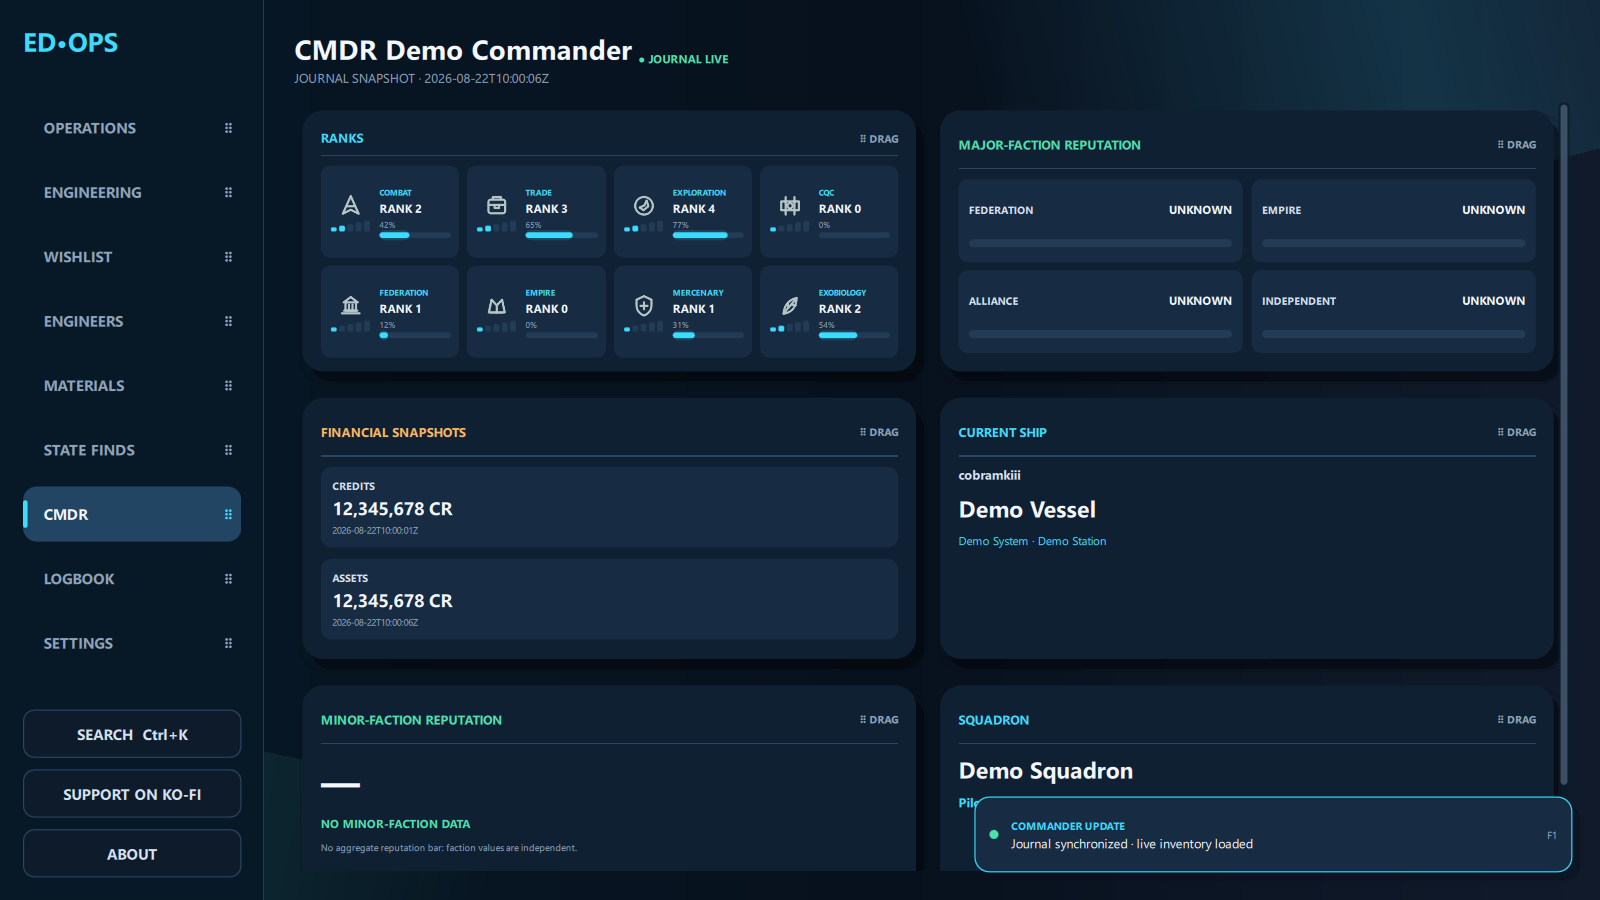
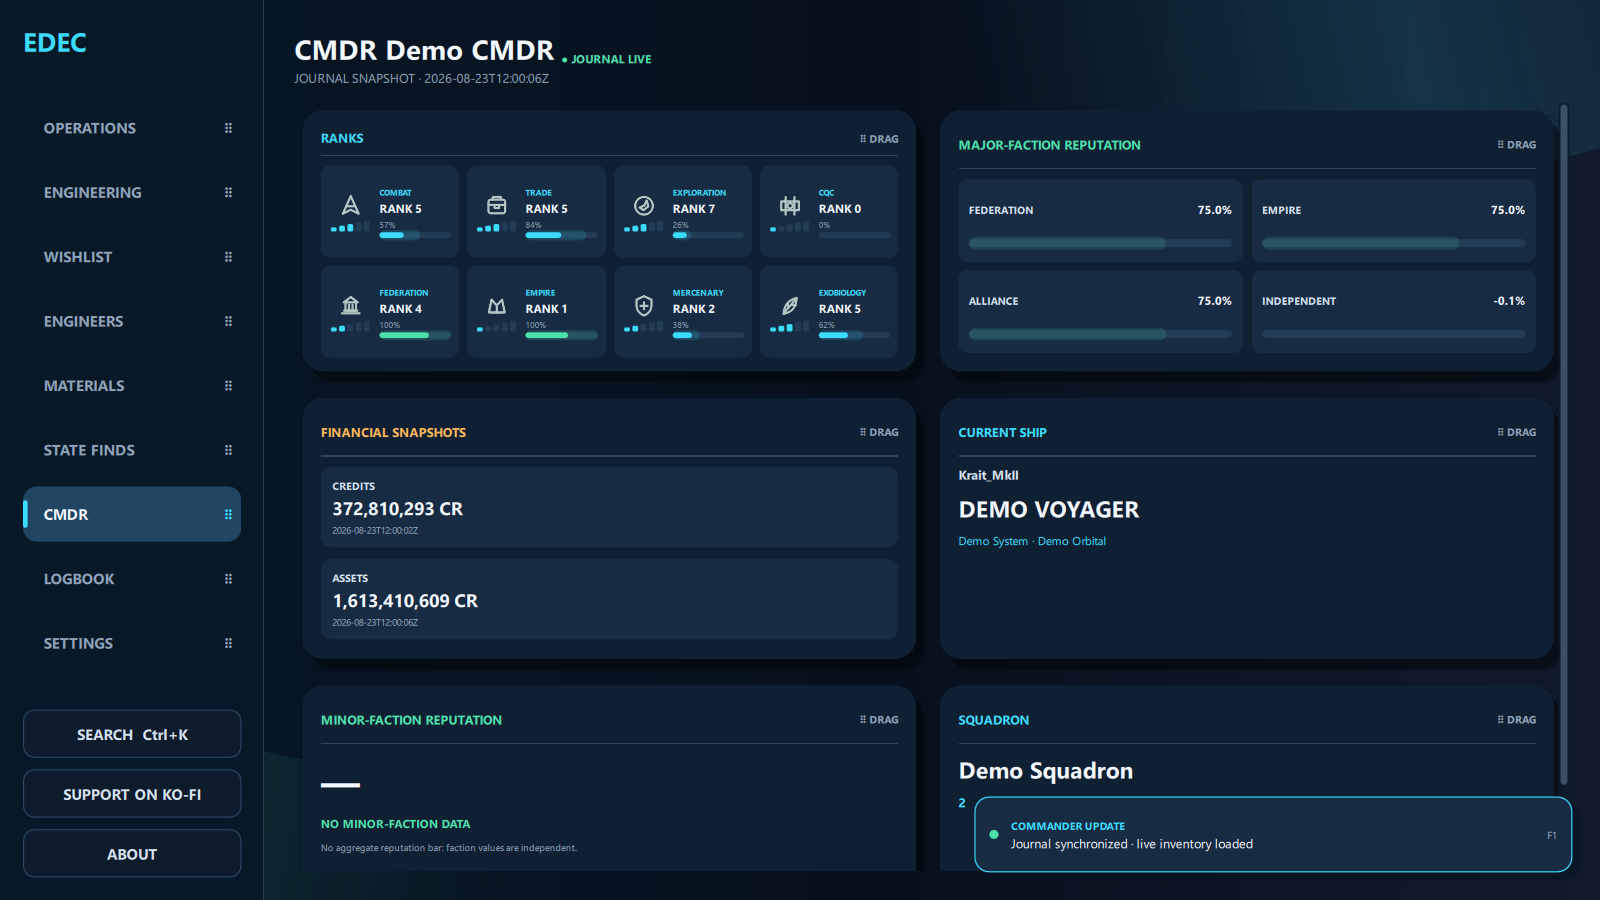
Rebrand application as ED Engineering Companion

diff --git a/Main.qml b/Main.qml
@@ -9,7 +9,8 @@ ApplicationWindow {
     minimumWidth: 1120
     minimumHeight: 700
     visible: true
-    title: "ED Engineering Companion · " + cockpit.appVersion
+    title: "ED Engineering Companion (EDEC) · " + cockpit.appVersion
+    property int previewEngineersMode: 0
 
     // The single app-wide source of color truth. Every palette defines the
     // same semantic roles so a theme switch updates every binding at once.
@@ -834,7 +835,7 @@ ApplicationWindow {
             anchors.margins: 20
             spacing: 10
             Label {
-                text: window.compactSidebar ? "ED" : "ED•OPS"
+                text: window.compactSidebar ? "EC" : "EDEC"
                 color: cyan
                 font.pixelSize: 23
                 font.bold: true
@@ -960,7 +961,7 @@ ApplicationWindow {
                 text: window.compactSidebar ? "ⓘ" : "ABOUT"
                 Layout.fillWidth: true
                 ToolTip.visible: hovered
-                ToolTip.text: "About ED·OPS"
+                ToolTip.text: "About ED Engineering Companion"
                 onClicked: aboutDialog.open()
             }
         }
@@ -3102,7 +3103,7 @@ ApplicationWindow {
         property string query: engineerSearch.text.toLowerCase()
         property string statusFilter: engineerStatus.currentText
         property string brokerFilter: "ALL"
-        property bool unlockMode: false
+        property bool unlockMode: window.previewEngineersMode === 1
         property bool guardianMode: false
         property string selectedEngineerName: ""
         property string selectedGuardianName: ""
@@ -5001,23 +5002,23 @@ ApplicationWindow {
                     Rectangle { Layout.fillWidth: true; height: 1; color: borderTone }
                     Label { text: "WINDOWS BEHAVIOR"; color: green; font.pixelSize: 11; font.bold: true }
                     CheckBox {
-                        text: "Keep ED·OPS running in the system tray when the window closes"
+                        text: "Keep EDEC running in the system tray when the window closes"
                         checked: cockpit.backgroundMode
                         enabled: cockpit.systemTrayAvailable
                         onToggled: cockpit.setBackgroundMode(checked)
                     }
                     CheckBox {
-                        text: "Start ED·OPS with Windows in background mode"
+                        text: "Start EDEC with Windows in background mode"
                         checked: cockpit.autostartEnabled
                         enabled: cockpit.backgroundMode
                         onToggled: cockpit.setAutostartEnabled(checked)
                     }
                     Label {
                         text: !cockpit.systemTrayAvailable
-                              ? "SYSTEM TRAY UNAVAILABLE · Closing the window exits ED·OPS."
+                              ? "SYSTEM TRAY UNAVAILABLE · Closing the window exits EDEC."
                               : cockpit.backgroundMode
-                              ? "TRAY MODE ENABLED · Journal, inventory and EDDN continue after closing the window. Use EXIT ED·OPS in the tray to stop."
-                              : "DISABLED BY DEFAULT · Closing the window exits ED·OPS."
+                              ? "TRAY MODE ENABLED · Journal, inventory and EDDN continue after closing the window. Use EXIT EDEC in the tray to stop."
+                              : "DISABLED BY DEFAULT · Closing the window exits EDEC."
                         color: cockpit.backgroundMode ? green : muted
                         font.pixelSize: 10; wrapMode: Text.WordWrap; Layout.fillWidth: true
                     }
@@ -5040,13 +5041,13 @@ ApplicationWindow {
                         spacing: 8
                         CockpitButton {
                             Layout.fillWidth: true
-                            text: cockpit.restartRequired ? "RESTART · APPLY CHANGES" : "RESTART ED·OPS"
+                            text: cockpit.restartRequired ? "RESTART · APPLY CHANGES" : "RESTART EDEC"
                             selected: cockpit.restartRequired
                             onClicked: cockpit.requestRestart()
                         }
                         CockpitButton {
                             Layout.fillWidth: true
-                            text: "EXIT ED·OPS"
+                            text: "EXIT EDEC"
                             onClicked: cockpit.requestExit()
                         }
                     }
@@ -6232,7 +6233,7 @@ ApplicationWindow {
     Dialog {
         id: aboutDialog
         objectName: "qa-dialog-about"
-        title: "About ED·OPS"
+        title: "About ED Engineering Companion"
         modal: true
         anchors.centerIn: parent
         width: Math.min(620, window.width - 80)
@@ -6240,7 +6241,7 @@ ApplicationWindow {
         contentItem: ColumnLayout {
             spacing: 14
             Label {
-                text: "ED·OPS"
+                text: "ED Engineering Companion"
                 color: cyan
                 font.pixelSize: 26
                 font.bold: true
@@ -6284,7 +6285,7 @@ ApplicationWindow {
             }
             Label {
                 Layout.fillWidth: true
-                text: "Special thanks to everyone who helped shape ED·OPS — contributors, testers, bug reporters, translators, and the Elite Dangerous community. Thanks also to EDCD/EDDN, INARA, and Spansh for their documentation, services, and community resources."
+                text: "Special thanks to everyone who helped shape EDEC — contributors, testers, bug reporters, translators, and the Elite Dangerous community. Thanks also to EDCD/EDDN, INARA, and Spansh for their documentation, services, and community resources."
                 color: textSecondary
                 font.pixelSize: 11
                 wrapMode: Text.WordWrap
@@ -6299,7 +6300,7 @@ ApplicationWindow {
             }
             Label {
                 Layout.fillWidth: true
-                text: "ED·OPS is a third-party tool and is not affiliated with Frontier Developments. Elite Dangerous is a trademark of Frontier Developments plc."
+                text: "ED Engineering Companion (EDEC) is a third-party tool and is not affiliated with Frontier Developments. Elite Dangerous is a trademark of Frontier Developments plc."
                 color: muted
                 font.pixelSize: 10
                 wrapMode: Text.WordWrap

diff --git a/ed_companion/phase14/controller.py b/ed_companion/phase14/controller.py
@@ -884,19 +884,19 @@ class CockpitController(QObject):
         if journal_status not in {"LIVE", "READY"}:
             verdict = "YES — JOURNAL IS NOT HEALTHY"
             tone = "ERROR"
-            reason = "ED·OPS cannot currently prove reliable Journal processing. Keep EDMC until the Journal status is LIVE or READY."
+            reason = "EDEC cannot currently prove reliable Journal processing. Keep EDMC until the Journal status is LIVE or READY."
         elif not upload_enabled:
             verdict = "YES — EDDN SHARING IS OFF"
             tone = "WARNING"
-            reason = "ED·OPS reads the Journal, but anonymous EDDN upload is disabled. EDMC is still needed if you want to contribute community data."
+            reason = "EDEC reads the Journal, but anonymous EDDN upload is disabled. EDMC is still needed if you want to contribute community data."
         elif failed:
             verdict = "RECOMMENDED — EDDN ERRORS PENDING"
             tone = "WARNING"
-            reason = f"ED·OPS has {failed} failed EDDN delivery job(s). Resolve or safely retry them before retiring EDMC."
+            reason = f"EDEC has {failed} failed EDDN delivery job(s). Resolve or safely retry them before retiring EDMC."
         else:
             verdict = "NO — FOR JOURNAL + EDDN"
             tone = "READY"
-            reason = "ED·OPS is processing the Journal and its EDDN sender is enabled. Running EDMC in parallel is not required for these paths."
+            reason = "EDEC is processing the Journal and its EDDN sender is enabled. Running EDMC in parallel is not required for these paths."
         station_note = (
             f"{station_attention} station snapshot(s) need attention. Opening the matching Elite station page refreshes them; EDMC cannot create data Elite has not exposed."
             if station_attention else

diff --git a/phase14_main.py b/phase14_main.py
@@ -59,7 +59,7 @@ SINGLE_INSTANCE_NAME = "EDOPS-phase14-single-instance"
 
 
 class SingleInstanceRuntime(QObject):
-    """Keep one ED·OPS process and ask the existing window to foreground."""
+    """Keep one EDEC process and ask the existing window to foreground."""
 
     activationRequested = Signal()
 
@@ -418,7 +418,8 @@ def run():
     install_diagnostics(smoke_messages)
     app = QApplication(sys.argv)
     app.setFont(QFont("Segoe UI", 12))
-    app.setApplicationName("Elite Dangerous Engineering Companion")
+    app.setApplicationName("ED Engineering Companion")
+    app.setApplicationDisplayName("ED Engineering Companion")
     app.setApplicationVersion(APP_VERSION)
 
     if SingleInstanceRuntime.notify_existing():
@@ -467,6 +468,12 @@ def run():
             window.setProperty(
                 "connectionPreviewMode", int(preview_connection)
             )
+        except ValueError:
+            pass
+    preview_engineers_mode = os.environ.get("PHASE14_PREVIEW_ENGINEERS_MODE")
+    if preview_engineers_mode is not None:
+        try:
+            window.setProperty("previewEngineersMode", int(preview_engineers_mode))
         except ValueError:
             pass
     preview_material = os.environ.get("PHASE14_PREVIEW_MATERIAL")

diff --git a/ed_companion/integrations/inara.py b/ed_companion/integrations/inara.py
@@ -1389,7 +1389,7 @@ def send_events(config, events, post=None, timeout=25):
         schema_error = status in {400, 404, 409, 422}
         raise InaraError(
             f"INARA returned HTTP {status}"
-            + (" · request/schema rejected; update ED·OPS before retrying."
+            + (" · request/schema rejected; update EDEC before retrying."
                if schema_error else "."),
             retryable=retryable, status_code=status, schema_error=schema_error,
         ) from None
@@ -1403,7 +1403,7 @@ def send_events(config, events, post=None, timeout=25):
         raise InaraError(
             f"INARA returned HTTP {status}"
             + (f" · {detail}" if detail else "")
-            + (" · request/schema rejected; update ED·OPS before retrying."
+            + (" · request/schema rejected; update EDEC before retrying."
                if schema_error else "."),
             retryable=retryable, status_code=status, schema_error=schema_error,
         )

diff --git a/ed_companion/integrations/eddn.py b/ed_companion/integrations/eddn.py
@@ -748,7 +748,7 @@ def envelope(prepared, context, uploader_id, version=APP_VERSION):
         ),
         "header": {
             "uploaderID": str(uploader_id),
-            "softwareName": "Elite Dangerous Engineering Companion",
+            "softwareName": "ED Engineering Companion",
             "softwareVersion": str(version),
             "gameversion": str(context.get("gameversion") or ""),
             "gamebuild": str(context.get("gamebuild") or ""),
@@ -779,7 +779,7 @@ def send(prepared, context, uploader_id, opener=urlopen, timeout=20):
         except (OSError, AttributeError):
             detail = ""
         schema_note = (
-            " Schema/message rejected; refresh ED·OPS schema support before retrying."
+            " Schema/message rejected; refresh EDEC schema support before retrying."
             if status in {400, 413, 426} else ""
         )
         raise EddnError(

diff --git a/ed_companion/loadout_export.py b/ed_companion/loadout_export.py
@@ -113,7 +113,7 @@ def build_loadout_export(
 
 def loadout_text(payload: dict[str, Any]) -> str:
     lines = [
-        "ED·OPS SHIP OUTFITTING",
+        "EDEC SHIP OUTFITTING",
         f"STATUS · {payload.get('status', 'PARTIAL')}",
         f"SHIP · {payload.get('Ship') or 'Unknown'}",
         f"MODULES · {len(payload.get('Modules') or [])}",

diff --git a/ed_companion/__init__.py b/ed_companion/__init__.py
@@ -1,4 +1,4 @@
-"""Reusable application core for Elite Dangerous Engineering Companion."""
+"""Reusable application core for ED Engineering Companion (EDEC)."""
 
 # Release/build identity shown by the app and sent to optional integrations.
 APP_VERSION = "21.163"

diff --git a/ed_companion/persistence.py b/ed_companion/persistence.py
@@ -1,4 +1,4 @@
-"""Collision-safe atomic writes for local ED·OPS persistence files."""
+"""Collision-safe atomic writes for local EDEC persistence files."""
 
 import os
 import re

diff --git a/README.md b/README.md
@@ -1,10 +1,10 @@
-# ED·OPS
+# ED Engineering Companion (EDEC)
 
-ED·OPS is a free, open-source Engineering Companion for Elite Dangerous. It combines blueprint planning, material tracking, Engineer unlock guidance, Journal processing, and optional INARA/EDDN connectivity in one desktop application.
+ED Engineering Companion (EDEC) is a free, open-source companion tool for Elite Dangerous. It combines blueprint planning, material tracking, Engineer unlock guidance, Journal processing, and optional INARA/EDDN connectivity in one desktop application.
 
-[Download the latest release](https://github.com/CMDRForcer/ED-OPS/releases/latest) · User manual: [English](docs/EDOPS_User_Manual_Privacy_EN_21.163.pdf) / [Deutsch](docs/EDOPS_User_Manual_Privacy_DE_21.163.pdf) · [Report a bug](https://github.com/CMDRForcer/ED-OPS/issues) · [Support ED·OPS on Ko-fi](https://ko-fi.com/cmdrforcer)
+[Download the latest release](https://github.com/CMDRForcer/ED-OPS/releases/latest) · User manual: [English](docs/EDEC_User_Manual_Privacy_EN_21.163.pdf) / [Deutsch](docs/EDEC_User_Manual_Privacy_DE_21.163.pdf) · [Report a bug](https://github.com/CMDRForcer/ED-OPS/issues) · [Support EDEC on Ko-fi](https://ko-fi.com/cmdrforcer)
 
-![ED·OPS Commander Operations](docs/images/operations.png)
+![EDEC Commander Operations](docs/images/operations.png)
 
 ## Features
 
@@ -23,11 +23,11 @@ ED·OPS is a free, open-source Engineering Companion for Elite Dangerous. It com
 
 ### CMDR overview
 
-![ED·OPS CMDR overview using demo data](docs/images/cmdr-overview.png)
+![EDEC CMDR overview using demo data](docs/images/cmdr-overview.png)
 
 ### Engineer Unlock Guide
 
-![ED·OPS Engineer Unlock Guide using demo data](docs/images/unlock-guide.png)
+![EDEC Engineer Unlock Guide using demo data](docs/images/unlock-guide.png)
 
 All screenshots use synthetic demo data and do not contain a real Commander profile or API credentials.
 
@@ -40,36 +40,36 @@ All screenshots use synthetic demo data and do not contain a real Commander prof
 
 ### Portable installation (recommended)
 
-1. Open the [latest ED·OPS release](https://github.com/CMDRForcer/ED-OPS/releases/latest).
-2. Under **Assets**, download `ED-OPS-21.163-Windows.zip`.
+1. Open the [latest EDEC release](https://github.com/CMDRForcer/ED-OPS/releases/latest).
+2. Under **Assets**, download `EDEC-21.163-Windows.zip`.
 3. Extract the entire ZIP to a writable folder.
-4. Start `ED-OPS.exe`. Keep the `_internal` folder next to the executable.
+4. Start `EDEC.exe`. Keep the `_internal` folder next to the executable.
 
 The portable package includes Python and all required dependencies. Windows SmartScreen may show a warning because the executable is not code-signed yet.
 
 ### Run from source
 
-To run the source version instead, install Python 3, download **Source code (zip)**, extract it, run `INSTALL_REQUIREMENTS.bat` once, and then start ED·OPS with `START_APP.bat`.
+To run the source version instead, install Python 3, download **Source code (zip)**, extract it, run `INSTALL_REQUIREMENTS.bat` once, and then start EDEC with `START_APP.bat`.
 
 Personal settings, Journal cursors, caches, and service credentials are stored outside the program folder and are not part of the GitHub download.
 
 ## User manual and privacy
 
-The illustrated ED·OPS 21.163 manual explains installation, navigation, Engineering, the Unlock Guide, local data storage, and the complete INARA, EDDN, and Spansh data flows. It is available in [English](docs/EDOPS_User_Manual_Privacy_EN_21.163.pdf) and [German](docs/EDOPS_User_Manual_Privacy_DE_21.163.pdf). Both editions use synthetic demo screenshots throughout.
+The illustrated EDEC 21.163 manual explains installation, navigation, Engineering, the Unlock Guide, local data storage, and the complete INARA, EDDN, and Spansh data flows. It is available in [English](docs/EDEC_User_Manual_Privacy_EN_21.163.pdf) and [German](docs/EDEC_User_Manual_Privacy_DE_21.163.pdf). Both editions use synthetic demo screenshots throughout.
 
 ## Connections
 
 ### INARA
 
-INARA synchronization is optional. ED·OPS batches supported Commander events, applies deduplication, respects rate limits, and stores local receipts. An INARA API key and Commander configuration are required before uploads can be enabled.
+INARA synchronization is optional. EDEC batches supported Commander events, applies deduplication, respects rate limits, and stores local receipts. An INARA API key and Commander configuration are required before uploads can be enabled.
 
 ### EDDN
 
-EDDN contribution is optional. ED·OPS validates supported messages locally and removes private or unsupported fields before sending public market, station, exploration, and exobiology data.
+EDDN contribution is optional. EDEC validates supported messages locally and removes private or unsupported fields before sending public market, station, exploration, and exobiology data.
 
 ### Spansh
 
-Spansh is used as an optional read-only catalog source for navigation and material-farming assistance. ED·OPS includes offline fallback behavior when the service is unavailable.
+Spansh is used as an optional read-only catalog source for navigation and material-farming assistance. EDEC includes offline fallback behavior when the service is unavailable.
 
 ## Reliability
 
@@ -96,14 +96,14 @@ See [`requirements.txt`](requirements.txt) for the Python dependencies.
 
 ## Status
 
-ED·OPS is under active development. Contributions, bug reports, and feature suggestions are welcome through [GitHub Issues](https://github.com/CMDRForcer/ED-OPS/issues).
+EDEC is under active development. Contributions, bug reports, and feature suggestions are welcome through [GitHub Issues](https://github.com/CMDRForcer/ED-OPS/issues).
 
 ## License
 
-ED·OPS is licensed under the [GNU General Public License v3.0](LICENSE).
+EDEC is licensed under the [GNU General Public License v3.0](LICENSE).
 
 ## Support
 
-ED·OPS remains free to use. If you would like to support its development, visit [ko-fi.com/cmdrforcer](https://ko-fi.com/cmdrforcer).
+EDEC remains free to use. If you would like to support its development, visit [ko-fi.com/cmdrforcer](https://ko-fi.com/cmdrforcer).
 
-ED·OPS is an independent third-party project and is not affiliated with Frontier Developments. Elite Dangerous is a trademark of Frontier Developments plc.
+ED Engineering Companion (EDEC) is an independent third-party project and is not affiliated with Frontier Developments. Elite Dangerous is a trademark of Frontier Developments plc.
